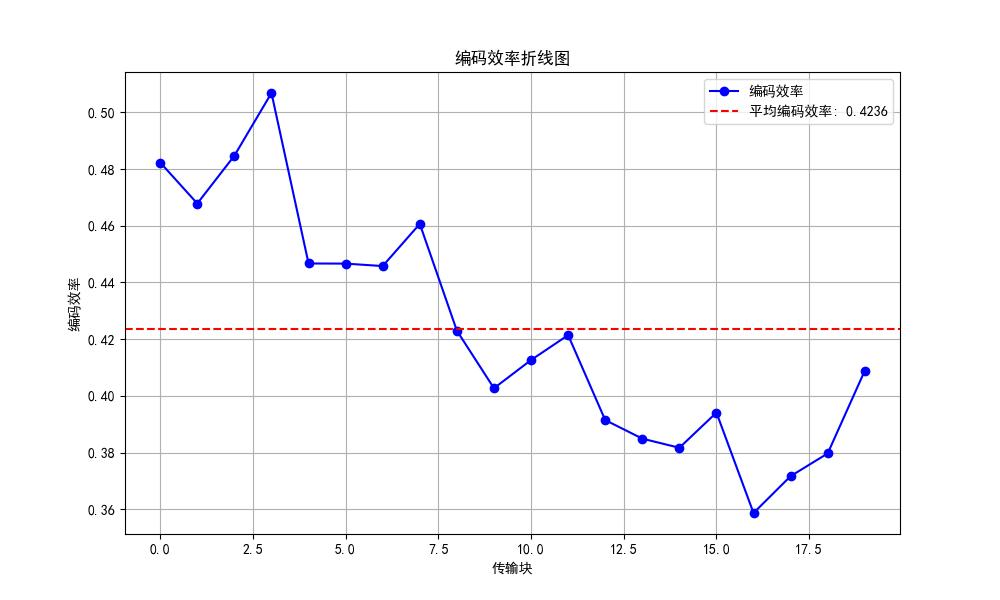
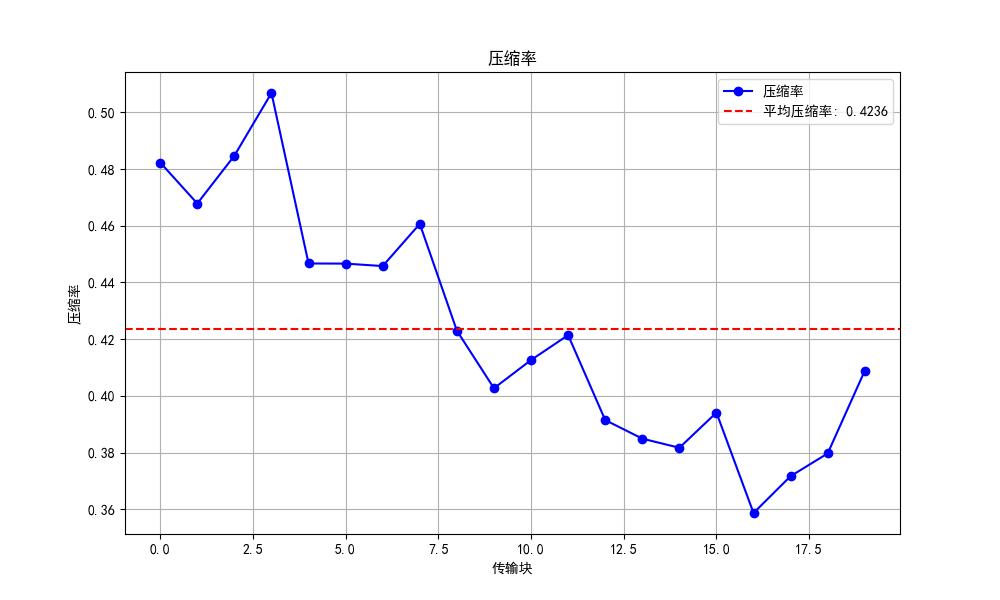
修正了一处错误

Changed region(s): [[0.713, 0.12, 0.837, 0.21], [0.434, 0.06, 0.589, 0.12], [0.062, 0.45, 0.093, 0.57]]

diff --git a/src/Transmission.py b/src/Transmission.py
@@ -84,7 +84,7 @@ class ProgressiveTransmission:
         block_size = len(compressed_data)
         
         efficiency = compressed_size / original_size
-        self.efficiency_list.append(1 - efficiency)
+        self.efficiency_list.append(efficiency)
 
         if block_size > self.bandwidth:
             raise ValueError(f"Block size ({block_size} bytes) exceeds bandwidth ({self.bandwidth} bytes).")
